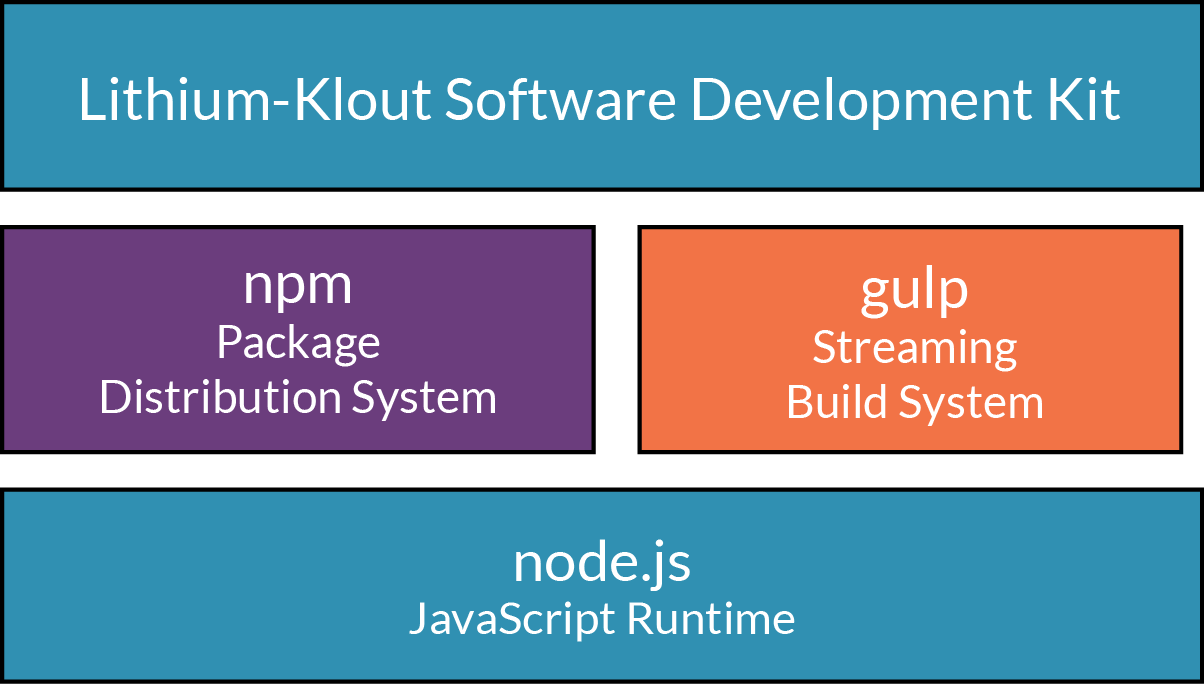
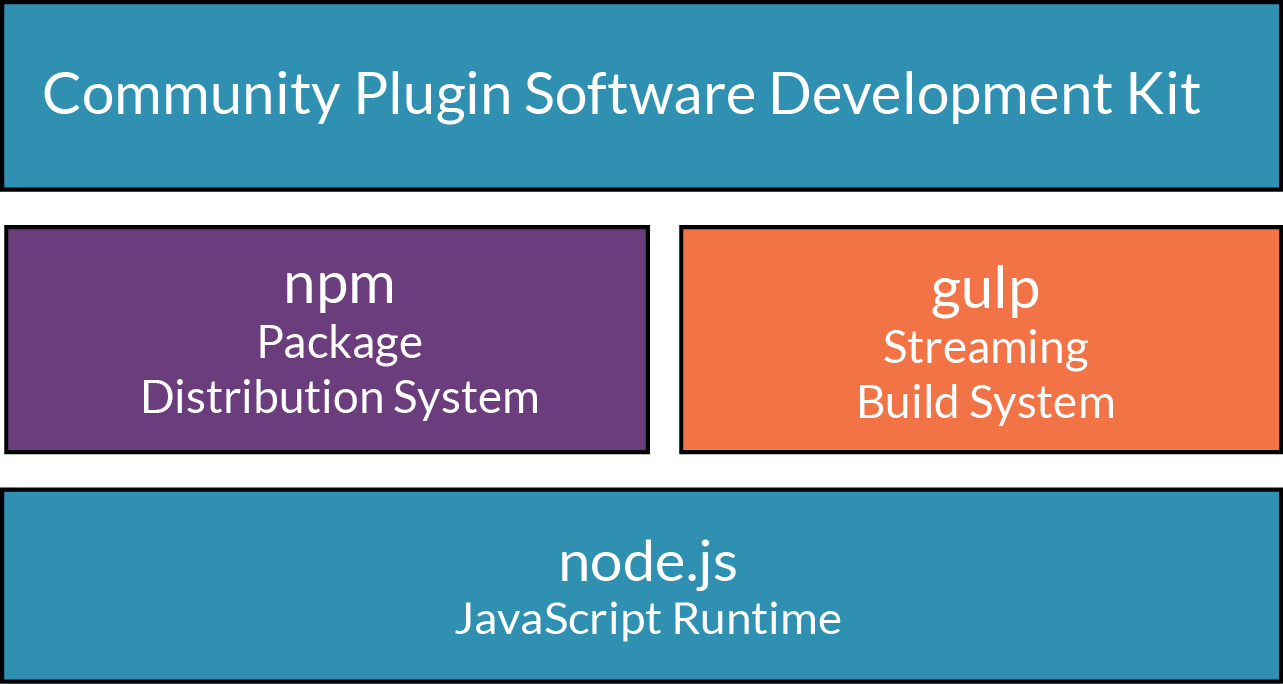
sdk name change

diff --git a/docs/ngdoc/templates/indexPage.template.html b/docs/ngdoc/templates/indexPage.template.html
@@ -90,7 +90,7 @@
           <div class="row">
             <div class="col-md-9 header-branding">
              <a class="brand navbar-brand">
-               Lithium SDK<!--<img width="117" height="30" class="logo" ng-src="img/lithium.svg"> -->
+               Community Plugin SDK<!--<img width="117" height="30" class="logo" ng-src="img/lithium.svg"> -->
               </a>
               <ul class="nav navbar-nav">
                 <li class="divider-vertical"></li>
